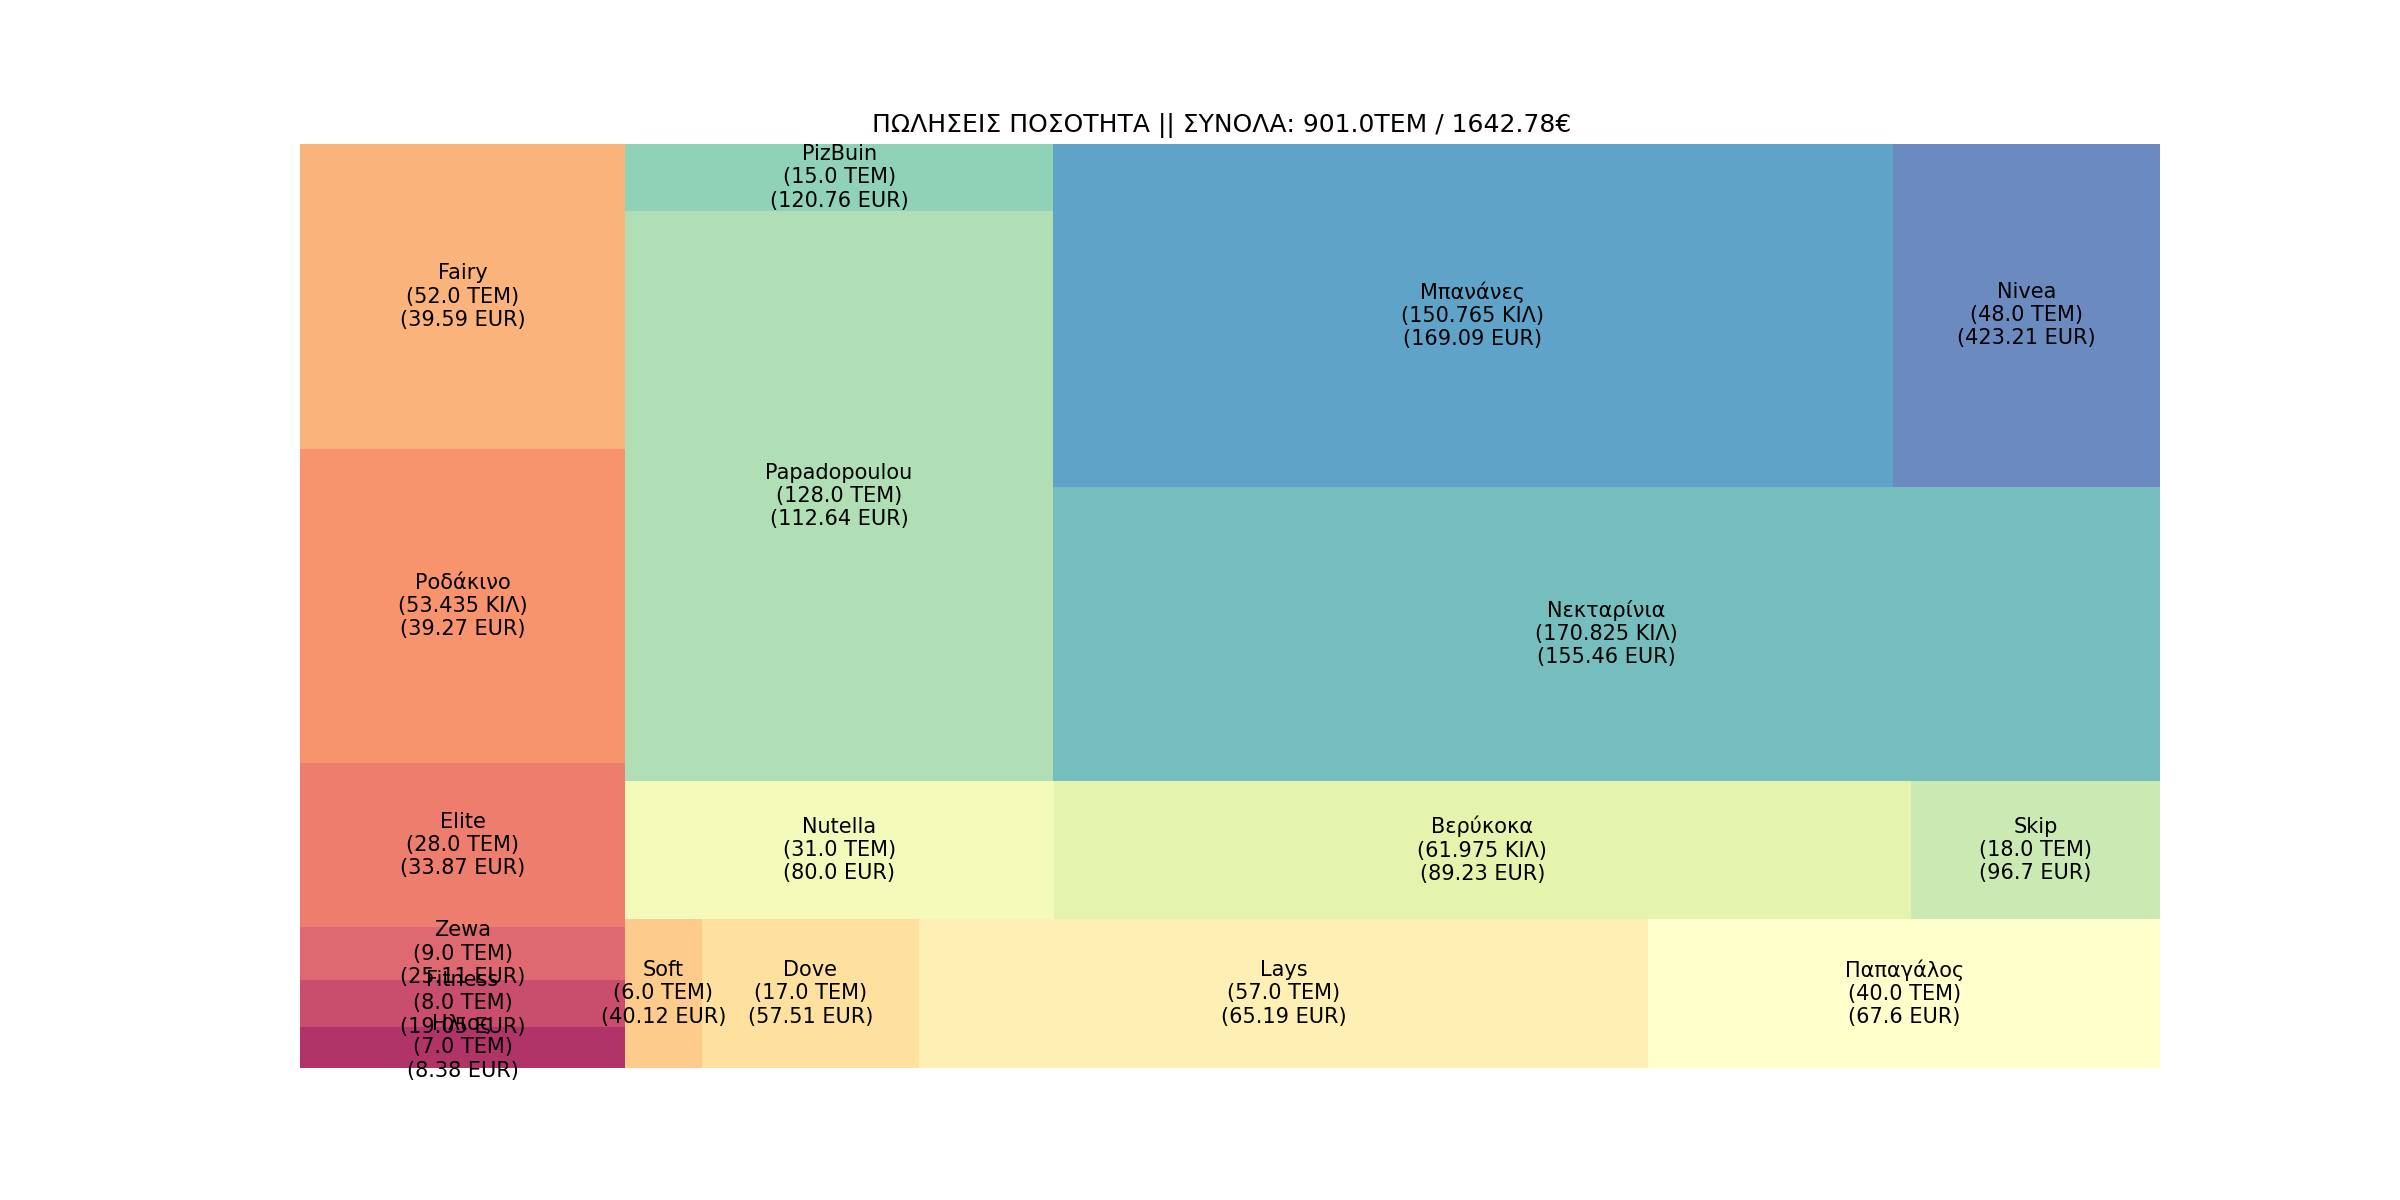
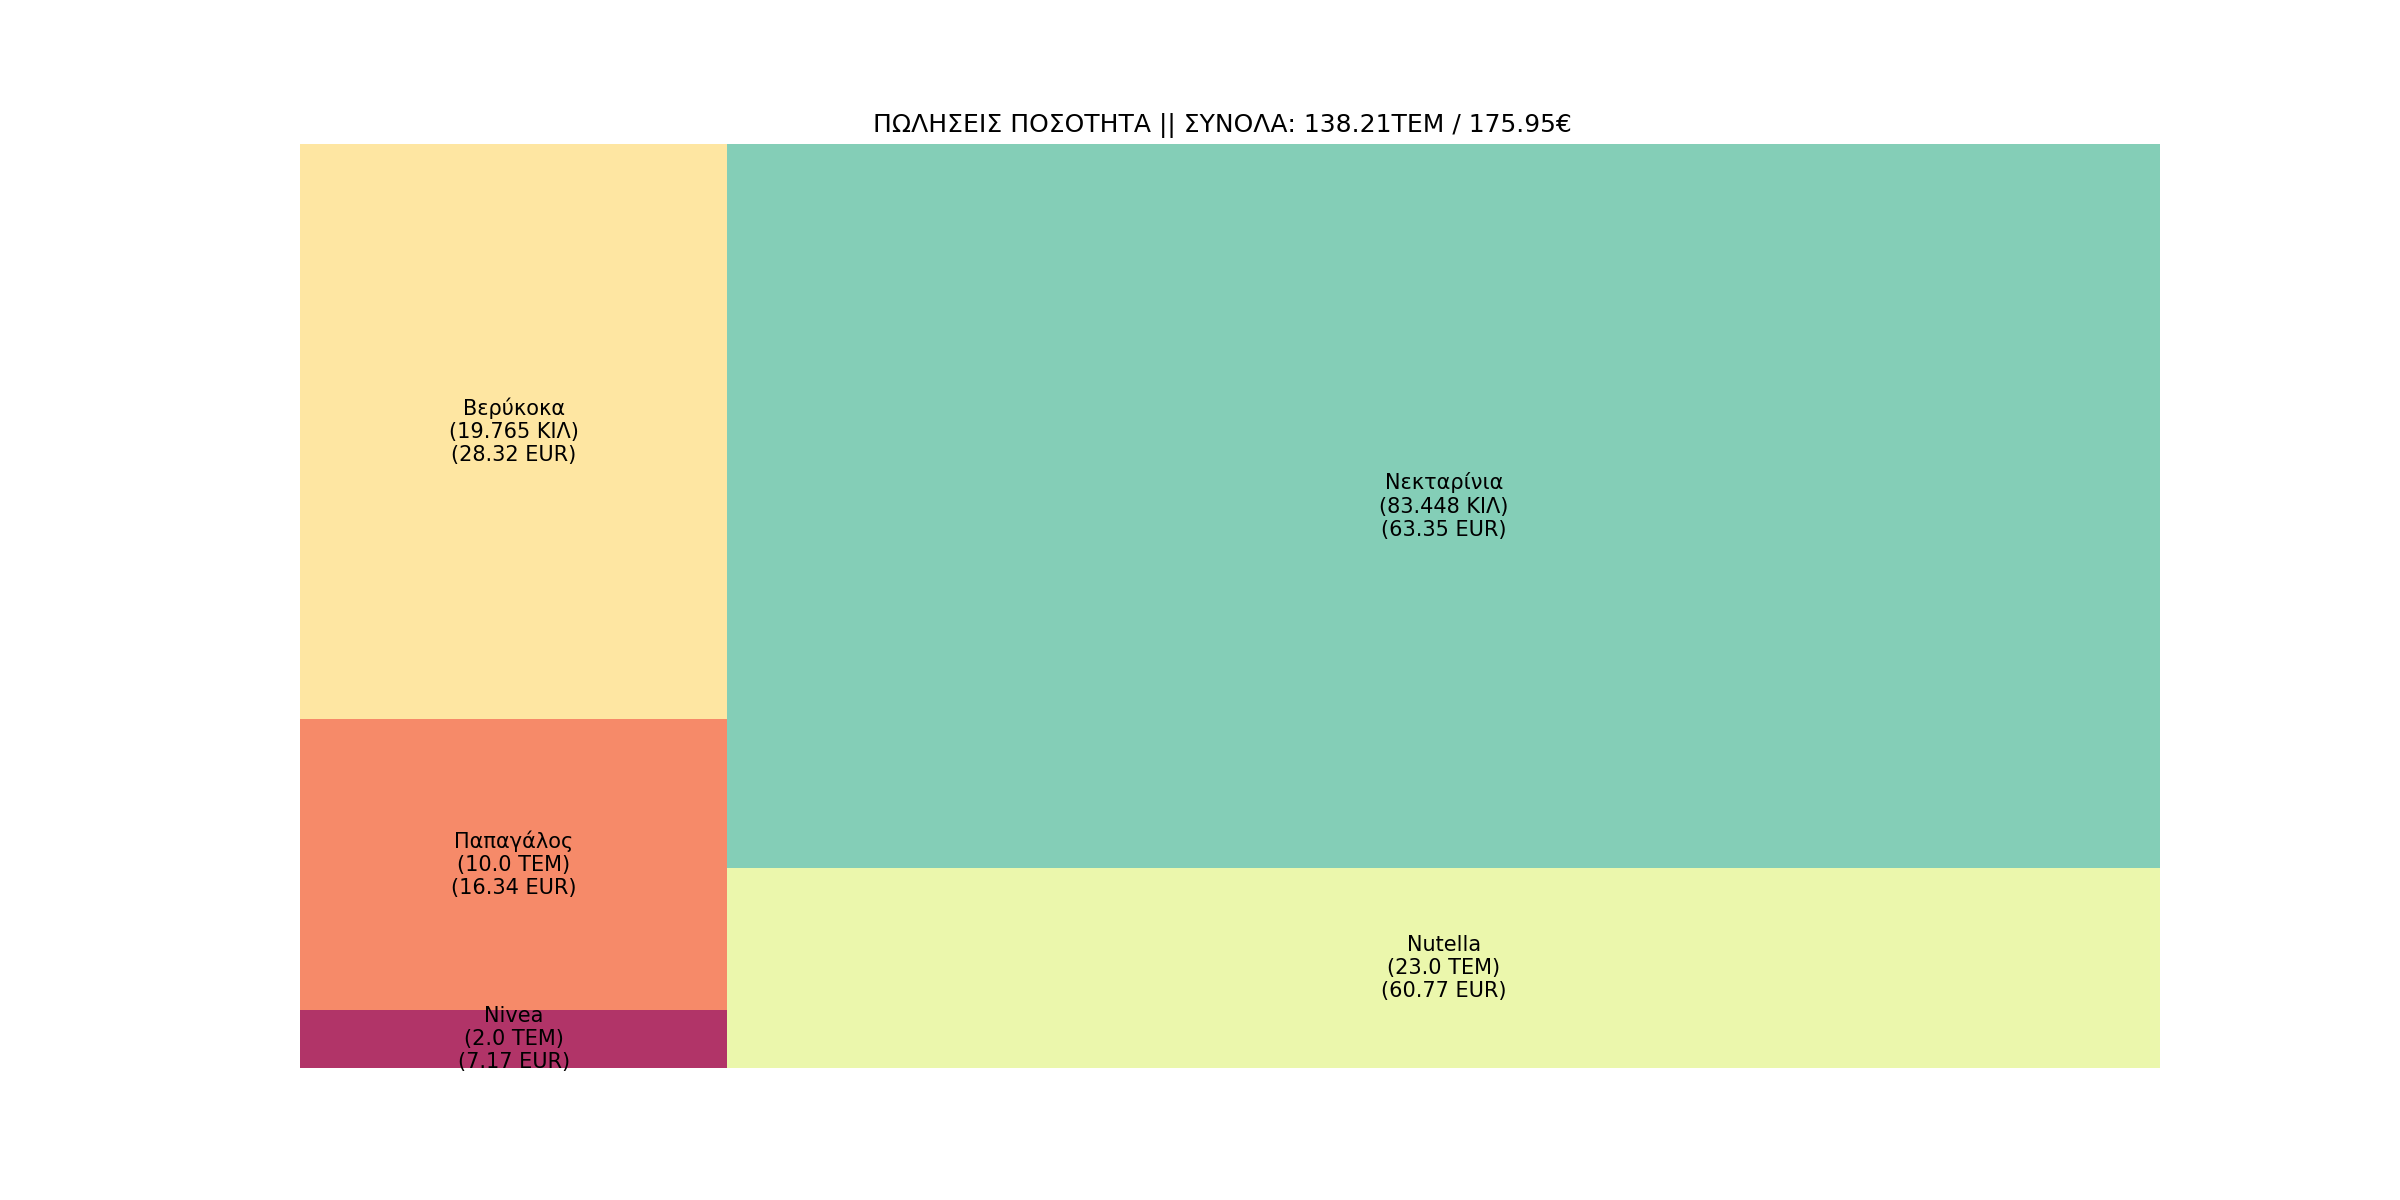
``@Ioannis E. Kommas (PyCharm Commit and Push Code Lines)``

diff --git a/A_DAILY_ΠΟΡΕΙΑ_ΤΙΜΟΚΑΤΑΛΟΓΟΥ_ΠΩΛΗΣΕΩΝ/pricelist_main_app.py b/A_DAILY_ΠΟΡΕΙΑ_ΤΙΜΟΚΑΤΑΛΟΓΟΥ_ΠΩΛΗΣΕΩΝ/pricelist_main_app.py
@@ -138,21 +138,26 @@ while True:
 
         # -------------------- TREE MAP --------------------
         # Prepare Data
-        # df = brand_sales
-        # 
-        # labels = df.apply(lambda x: f'{x[0]}\n({x[1]} {"TEM" if x[1] - int(x[1]) == 0 else "ΚΙΛ"})\n({round(x[2], 2)} EUR)', axis=1)
-        # sizes = df['SalesQuantity'].values.tolist()
-        # colors = [plt.cm.Spectral(i / float(len(labels))) for i in range(len(labels))]
-        # 
-        # # Draw Plot
-        # plt.figure(figsize=(16, 8), dpi=150)
-        # squarify.plot(sizes=sizes, label=labels, color=colors, alpha=.8)
-        # 
-        # # Decorate
-        # plt.title(f"ΠΩΛΗΣΕΙΣ ΠΟΣΟΤΗΤΑ || ΣΥΝΟΛΑ: {round(final_result.SalesQuantity.sum(), 2)}TEM / {round(final_result.Turnover.sum(), 2)}€  ")
-        # plt.axis('off')
-        # plt.savefig('tree_map_quantity.png')
-        # plt.show()
+        try:
+            df = brand_sales
+
+            labels = df.apply(lambda x: f'{x[0]}\n({x[1]} {"TEM" if x[1] - int(x[1]) == 0 else "ΚΙΛ"})\n({round(x[2], 2)} EUR)', axis=1)
+            sizes = df['SalesQuantity'].values.tolist()
+            colors = [plt.cm.Spectral(i / float(len(labels))) for i in range(len(labels))]
+
+            # Draw Plot
+            plt.figure(figsize=(16, 8), dpi=150)
+            squarify.plot(sizes=sizes, label=labels, color=colors, alpha=.8)
+
+            # Decorate
+            plt.title(f"ΠΩΛΗΣΕΙΣ ΠΟΣΟΤΗΤΑ || ΣΥΝΟΛΑ: {round(final_result.SalesQuantity.sum(), 2)}TEM / {round(final_result.Turnover.sum(), 2)}€  ")
+            plt.axis('off')
+            plt.savefig('tree_map_quantity.png')
+            # plt.show()
+        except ZeroDivisionError:
+            print('ΣΦΑΛΜΑ ZeroDivisionError ΣΤΟ TREE MAP')
+        except:
+            print('ΑΛΛΟ ΣΦΑΛΜΑ ΣΤΟ TREE MAP')
 
         # -------------------- READ VERSION OF PRICELIST IN TXT --------------------
         with open('version.txt', 'r') as file:

diff --git a/test.py b/test.py
@@ -1,14 +1,5 @@
 #   Copyright (c) 2020. Ioannis E. Kommas. All Rights Reserved
 
-a = ['loop', 'troop', 'soup', 'hello']
-
-b = ['loop', 'troop', 'soup', 'hello']
-def kommas():
-    for i in a:
-        print(i)
-        if i in b:
-            a.remove(i)
-            return kommas()
-    return a
-
-print(kommas())
+print(0 == 0)
+print([] == 0)
+print([] == '0')
